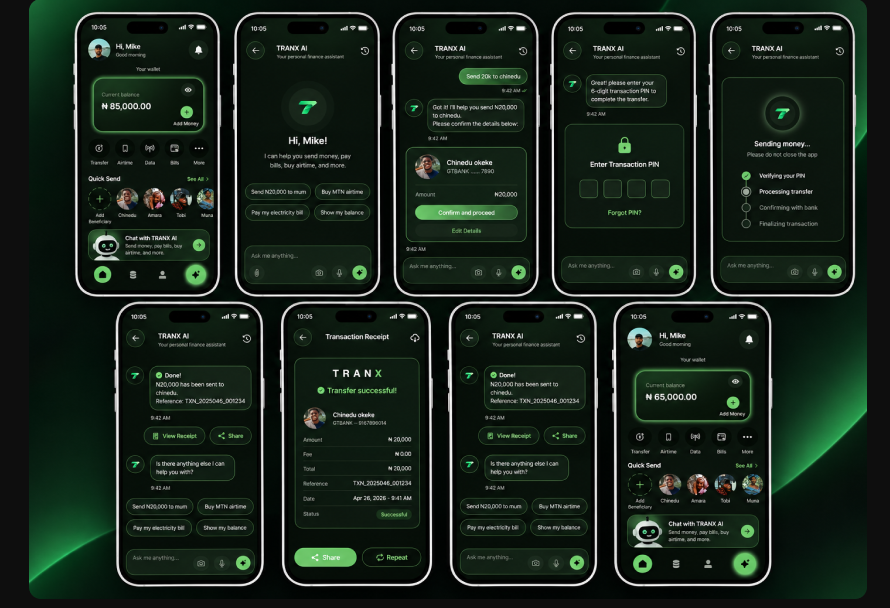
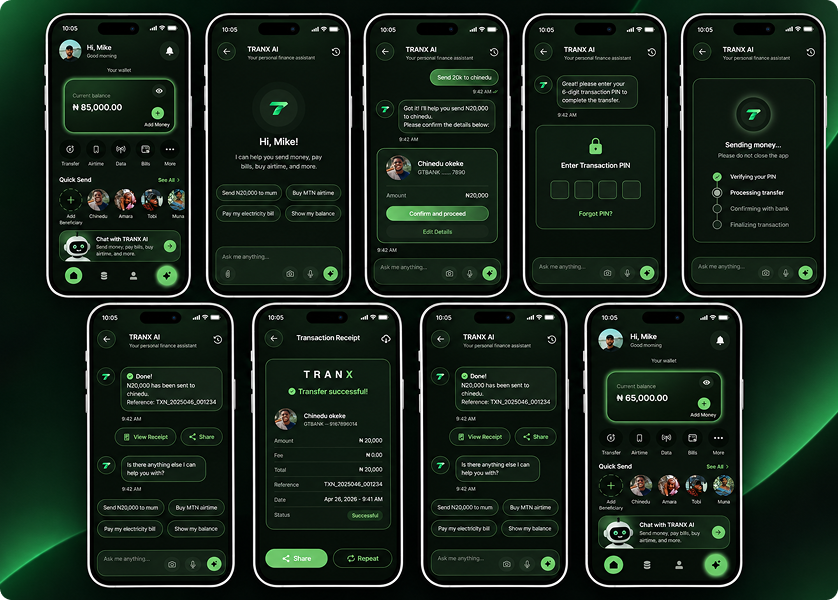
Tranx: clean full-bleed frames + exact Figma copy
- Swap in the clean exported Tranx design frames (Splash & Onboarding,
  Login & Registration, Dashboard, Add Money to Wallet, TRANX AI
  Transfers) and update their dimensions so each covers its whole area.
- Transcribe the full, exact Figma copy for every Tranx design,
  including the complete Add Money and AI Transfers step lists that were
  previously summarised.
- Add a per-case bulletStyle so VoltPass/LocalBite keep the lettered
  (A)/(B)/(C) layout while Tranx/Bookmaker use their Figma "Brief
  explanation" + inline-bullet layout.

diff --git a/src/lib/case-studies.ts b/src/lib/case-studies.ts
@@ -41,6 +41,12 @@ export type CaseStudy = {
    * - "none": image only (images carry all their own labels and text).
    */
   designsChrome: "full" | "numbered" | "none";
+  /**
+   * How each design's explanation bullets are laid out, to match the Figma:
+   * - "lettered": each bullet is its own serif sub-heading "(A). Label" + paragraph (VoltPass, LocalBite).
+   * - "brief" (default): a lead paragraph, a "Brief explanation" label, then inline "Label: text" bullets (Tranx, Bookmaker).
+   */
+  bulletStyle?: "lettered" | "brief";
   heroImage: string;
   heroW: number;
   heroH: number;
@@ -102,25 +108,25 @@ export const caseStudies: Record<string, CaseStudy> = {
         n: "01",
         title: "Splash & Onboarding",
         image: img("tranx", "design-01.png"),
-        w: 870,
-        h: 572,
+        w: 838,
+        h: 580,
         desc: "The splash screen establishes TRANX's visual identity through its minimal logo, dark interface, and green gradient accents. The onboarding screens introduce the app's core capabilities, including instant payments, bill payment, airtime, data purchase, and its AI-powered assistant.",
         bullets: [
           { label: "Splash Screen", text: "Introduces the TRANX brand with a clean, minimal identity." },
           { label: "Onboarding 01", text: "Highlights the convenience of managing everyday payments in one app." },
-          { label: "Onboarding 02", text: "Shows how the AI assistant simplifies transfers by understanding the user's instructions and requesting confirmation before proceeding." },
+          { label: "Onboarding 02", text: "Demonstrates how the AI assistant simplifies transfers by understanding the users instructions and requesting confirmation before proceeding." },
         ],
       },
       {
         n: "02",
         title: "Login & Registration",
         image: img("tranx", "design-02.png"),
-        w: 850,
-        h: 556,
+        w: 838,
+        h: 580,
         desc: "These screens demonstrate TRANX's account creation and returning-user authentication experience, with a focus on simplicity, security, and convenience.",
         bullets: [
-          { label: "Registration", text: "Lets new users create an account with their full name, email, phone number, and password, with clear password requirements." },
-          { label: "Biometric Login", text: "Enables returning users to access their accounts quickly using fingerprint." },
+          { label: "Registration", text: "Allows new users to create an account using their full name, email, phone number, and password, with clear password requirements." },
+          { label: "Biometric Login", text: "Enables returning users to access their accounts quickly using fingerprint" },
           { label: "Password Login", text: "Provides an alternative login method with a masked phone number, password field, and password recovery option." },
         ],
       },
@@ -128,28 +134,46 @@ export const caseStudies: Record<string, CaseStudy> = {
         n: "03",
         title: "Dashboard",
         image: img("tranx", "design-03.png"),
-        w: 850,
-        h: 552,
-        desc: "The TRANX dashboard provides users with a central space to manage their finances. It displays wallet balance, quick payment options, saved beneficiaries, recent transactions, and direct access to the AI payment assistant. The dark interface and green accents create a clean, modern experience while keeping essential financial actions easily accessible.",
+        w: 838,
+        h: 580,
+        desc: "The TRANX dashboard provides users with a central space to manage their finances, it displays wallet balance, quick payment options, saved beneficiaries, recent transactions, and direct access to the AI payment assistant. The dark interface and green accents create a clean, modern experience while keeping essential financial actions easily accessible.",
       },
       {
         n: "04",
         title: "Add Money to Wallet",
         image: img("tranx", "design-04.png"),
-        w: 870,
-        h: 650,
-        desc: "The wallet funding experience lets users add money to their TRANX wallet. The process is divided into clear steps — from entering an amount and selecting a payment method, to confirming the transaction and receiving payment confirmation.",
+        w: 838,
+        h: 580,
+        desc: "The wallet funding experience allows users to add money to their TRANX wallet. The process is divided into clear steps, from entering an amount and selecting a payment method, to confirming the transaction and receiving payment confirmation.",
         bullets: [
-          { label: "The flow", text: "Wallet dashboard → enter amount → payment method → card details → review payment → processing → payment success → transaction receipt → updated dashboard." },
+          { label: "Wallet Dashboard", text: "Displays the current balance and entry point for adding money." },
+          { label: "Enter Amount", text: "Users select or enter their preferred funding amount." },
+          { label: "Payment Method", text: "Choose the payment option suitable for you." },
+          { label: "Card Details", text: "Enter card information and optionally save the card." },
+          { label: "Review Payment", text: "Review the amount, payment method, fees and total." },
+          { label: "Processing Payment", text: "Shows the payment progress." },
+          { label: "Payment Success", text: "Confirms that funds have been added." },
+          { label: "Transaction Receipt", text: "Provides transaction details, sharing and repeat-payment options." },
+          { label: "Updated Dashboard", text: "Displays the wallet's new balance." },
         ],
       },
       {
         n: "05",
         title: "TRANX AI Transfers",
         image: img("tranx", "design-05.png"),
-        w: 870,
+        w: 838,
         h: 600,
-        desc: "This flow demonstrates how users can make bank transfers using the TRANX AI assistant through simple text instructions or voice commands. The AI identifies the recipient and amount, presents the transaction details for confirmation, and requests the user's transaction PIN before processing.",
+        desc: "This flow demonstrates how users can make bank transfers using the TRANX AI assistant using simple text instructions or voice commands, The AI identifies the recipient and amount, presents the transaction details for confirmation, and requests the user's transaction PIN before processing.",
+        bullets: [
+          { label: "Wallet Dashboard", text: "Access the AI transfer assistant from the homescreen" },
+          { label: "AI Welcome", text: "Introduces the assistant and suggested payment commands" },
+          { label: "Transfer Confirmation", text: "Displays recipient and transfer amount for review" },
+          { label: "PIN Authentication", text: "Secures the transaction with a 4-digit PIN." },
+          { label: "Processing Payment", text: "Shows the transfer progress." },
+          { label: "Transfer Success", text: "Confirms that the money was sent" },
+          { label: "Transaction Receipt", text: "Displays the transfer details and reference." },
+          { label: "Updated Dashboard", text: "Reflects the reduced wallet balance." },
+        ],
       },
     ],
     reflection:
@@ -168,6 +192,7 @@ export const caseStudies: Record<string, CaseStudy> = {
     designsIntro:
       "Here are some selected designs for LocalBites, which includes the splash & onboarding, customer dashboard, vendor dashboard and so on.",
     designsChrome: "numbered",
+    bulletStyle: "lettered",
     intro:
       "A mobile app designed for Nigerian food vendors, helping users order their local dishes from their favourite vendors with ease.",
     heroImage: img("localbite", "hero.png"),
@@ -305,6 +330,7 @@ export const caseStudies: Record<string, CaseStudy> = {
     designsIntro:
       "Here are some selected designs for VoltPass, which includes the splash & onboarding, dashboard, and so on.",
     designsChrome: "full",
+    bulletStyle: "lettered",
     intro:
       "A mobile app concept that allows users to connect smart sockets and manage them by room, including bedrooms, living rooms and kitchens.",
     heroImage: img("voltpass", "hero.png"),

diff --git a/src/app/projects/[slug]/page.tsx b/src/app/projects/[slug]/page.tsx
@@ -142,6 +142,7 @@ export default async function CaseStudyPage({
   const title = cs.displayName ?? cs.shortName;
   const showChrome = cs.designsChrome !== "none";
   const showTitle = cs.designsChrome === "full";
+  const lettered = cs.bulletStyle === "lettered";
 
   return (
     <Shell dark={isDark}>
@@ -280,7 +281,7 @@ export default async function CaseStudyPage({
                     {d.desc ? (
                       <p className="text-[15px] leading-relaxed text-muted-foreground">{d.desc}</p>
                     ) : null}
-                    {d.bullets?.length ? (
+                    {d.bullets?.length && lettered ? (
                       <div className={cn("space-y-5", d.desc ? "mt-5" : "")}>
                         {d.bullets.map((b, i) => (
                           <div key={`${d.n}-${i}`}>
@@ -295,6 +296,19 @@ export default async function CaseStudyPage({
                           </div>
                         ))}
                       </div>
+                    ) : null}
+                    {d.bullets?.length && !lettered ? (
+                      <>
+                        <p className="mt-5 font-semibold">Brief explanation</p>
+                        <div className="mt-3 space-y-2">
+                          {d.bullets.map((b, i) => (
+                            <p key={`${d.n}-${i}`} className="text-[15px] leading-relaxed">
+                              <span className="font-semibold text-foreground">{b.label}:</span>{" "}
+                              <span className="text-muted-foreground">{b.text}</span>
+                            </p>
+                          ))}
+                        </div>
+                      </>
                     ) : null}
                     {d.focus ? (
                       <p className="mt-5 text-[15px] leading-relaxed">
